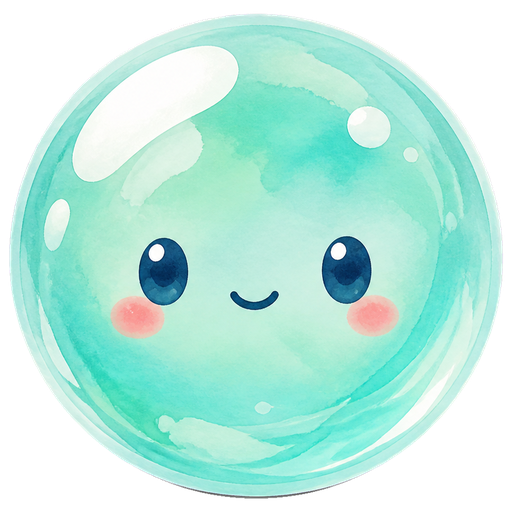
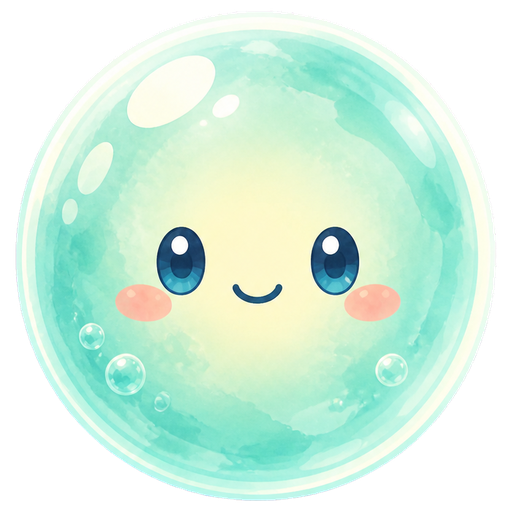
feat: harmonize bubble art palette

diff --git a/public/sw.js b/public/sw.js
@@ -1,4 +1,4 @@
-const CACHE_NAME = 'rhythm-bubbles-v65';
+const CACHE_NAME = 'rhythm-bubbles-v66';
 const CORE_ASSETS = [
   './',
   './manifest.webmanifest',

diff --git a/progress.md b/progress.md
@@ -189,3 +189,5 @@ Original prompt: 重写 Rhythm Bubbles，保持核心玩法不变，全面重做
 - Original prompt: 新优化，现在游戏也和主页左下方的泡泡好丑啊。别用代码去画泡泡了。用生图技能把。其实泡泡就可以改成加载页原画中的那种形式。改完只测修改部分，完事提交推送部署
 - 使用 imagegen 生成的薄荷普通泡泡与珊瑚目标泡泡完成透明去底，并接入游戏与主页：Phaser 直接加载 `bubble-normal.png` / `bubble-target.png`，主页左下角泡泡小队改为三张薄荷泡泡图片；删除旧 Canvas 泡泡纹理和 CSS 渐变、脸部伪元素，保留尺寸、位置、动画与点击判定。
 - 局部验证：两张 PNG 均为 512×512 RGBA、四角透明、主体覆盖约 72%；生产构建、`git diff --check`、主页三泡泡图片检查、390×844 战斗 4×4 盘面与真实目标点击通过，截图已目视确认新素材与当前水彩海洋风格一致，控制台无错误。Service Worker `v65` 已部署到 `http://64.83.41.39:18088`，部署目录与 `dist/` 完全一致，公网素材哈希和局部真实点击回归通过。
+- Original prompt: 与当前画风，配色不搭配啊啊。重新生成，然后替换。关掉这个后台进程，弄完不测直接部署
+- 已关闭本地 Vite 预览进程。重新以加载页原画、游戏背景和现有怪物为风格参考生成泡泡：普通泡泡改为低饱和薄荷与奶油黄，目标泡泡改为柔和珊瑚粉与奶油金，统一水彩软糖质感、白色细边和角色五官比例；覆盖原文件名，运行时代码与点击逻辑不变。按要求未运行游戏测试，Service Worker 更新为 `v66`，直接构建部署。
